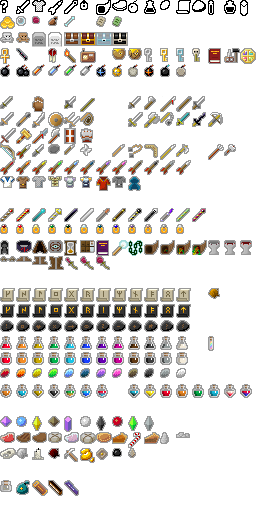
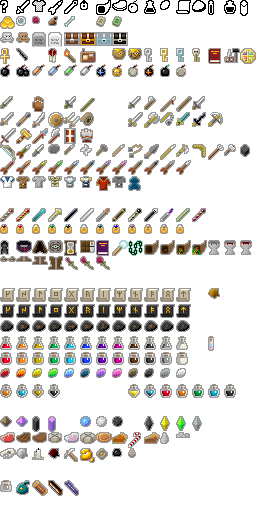
v0.7.3: removed unused sprites and added new ones (some still WIP)

diff --git a/core/src/main/java/com/shatteredpixel/shatteredpixeldungeon/sprites/ItemSpriteSheet.java b/core/src/main/java/com/shatteredpixel/shatteredpixeldungeon/sprites/ItemSpriteSheet.java
@@ -267,16 +267,19 @@ public class ItemSpriteSheet {
 	
 	public static final int FISHING_SPEAR   = MISSILE_WEP+4;
 	public static final int SHURIKEN        = MISSILE_WEP+5;
+	public static final int THROWING_CLUB   = MISSILE_WEP+6;
 	
 	public static final int THROWING_SPEAR  = MISSILE_WEP+7;
 	public static final int BOLAS           = MISSILE_WEP+8;
-	public static final int BOOMERANG       = MISSILE_WEP+9;
+	public static final int KUNAI           = MISSILE_WEP+9;
 	
 	public static final int JAVELIN         = MISSILE_WEP+10;
 	public static final int TOMAHAWK        = MISSILE_WEP+11;
+	public static final int BOOMERANG       = MISSILE_WEP+12;
 	
 	public static final int TRIDENT         = MISSILE_WEP+13;
 	public static final int THROWING_HAMMER = MISSILE_WEP+14;
+	public static final int FORCE_CUBE      = MISSILE_WEP+15;
 	
 	static{
 		assignItemRect(SPIRIT_BOW,      16, 16);
@@ -287,16 +290,19 @@ public class ItemSpriteSheet {
 		
 		assignItemRect(FISHING_SPEAR,   11, 11);
 		assignItemRect(SHURIKEN,        12, 12);
+		assignItemRect(THROWING_CLUB,   12, 12);
 		
 		assignItemRect(THROWING_SPEAR,  13, 13);
 		assignItemRect(BOLAS,           15, 14);
-		assignItemRect(BOOMERANG,       14, 14);
+		assignItemRect(KUNAI,           15, 15);
 		
 		assignItemRect(JAVELIN,         16, 16);
 		assignItemRect(TOMAHAWK,        13, 13);
+		assignItemRect(BOOMERANG,       14, 14);
 		
 		assignItemRect(TRIDENT,         16, 16);
 		assignItemRect(THROWING_HAMMER, 12, 12);
+		assignItemRect(FORCE_CUBE,      10, 13);
 	}
 	
 	public static final int TIPPED_DARTS    =                               xy(1, 11);  //16 slots
@@ -548,19 +554,15 @@ public class ItemSpriteSheet {
 	public static final int BREW_BLIZZARD   = BREWS+1;
 	public static final int BREW_SHOCKING   = BREWS+2;
 	public static final int BREW_CAUSTIC    = BREWS+3;
-	public static final int BREW_WICKED     = BREWS+4; //discontinued
-	public static final int BREW_FRIGID     = BREWS+5; //discontinued
-	public static final int BREW_FROSTFIRE  = BREWS+6; //discontinued
 	
 	private static final int ELIXIRS        =                               xy(9, 25);  //8 slots
-	public static final int ELIXIR_AQUA     = ELIXIRS+0;
-	public static final int ELIXIR_HONEY    = ELIXIRS+1;
+	public static final int ELIXIR_HONEY    = ELIXIRS+0;
+	public static final int ELIXIR_AQUA     = ELIXIRS+1;
 	public static final int ELIXIR_MIGHT    = ELIXIRS+2;
 	public static final int ELIXIR_DRAGON   = ELIXIRS+3;
 	public static final int ELIXIR_TOXIC    = ELIXIRS+4;
 	public static final int ELIXIR_ICY      = ELIXIRS+5;
-	public static final int ELIXIR_RESTO    = ELIXIRS+6; //discontinued
-	public static final int ELIXIR_SURGE    = ELIXIRS+7; //discontinued
+	public static final int ELIXIR_ARCANE   = ELIXIRS+6;
 	static{
 		for (int i = BREWS; i < BREWS+16; i++)
 			assignItemRect(i, 12, 14);
@@ -569,25 +571,31 @@ public class ItemSpriteSheet {
 	                                                                                    //16 free slots
 	
 	private static final int SPELLS         =                               xy(1, 27);  //16 slots
-	public static final int PHASE_SHIFT     = SPELLS+0;
-	public static final int AQUA_BLAST      = SPELLS+1;
-	public static final int MAGIC_INFUSE    = SPELLS+2;
-	public static final int MAGIC_PORTER    = SPELLS+3;
-	public static final int RETURN_BEACON   = SPELLS+4;
-	public static final int FEATHER_FALL    = SPELLS+5;
-	public static final int CURSE_INFUSE    = SPELLS+6;
+	public static final int MAGIC_PORTER    = SPELLS+0;
+	public static final int PHASE_SHIFT     = SPELLS+1;
+	public static final int WILD_ENERGY = SPELLS+2;
+	public static final int RETURN_BEACON   = SPELLS+3;
+	
+	public static final int AQUA_BLAST      = SPELLS+5;
+	public static final int FEATHER_FALL    = SPELLS+6;
 	public static final int RECLAIM_TRAP    = SPELLS+7;
-	public static final int ALCHEMIZE       = SPELLS+8;
-	public static final int RECYCLE         = SPELLS+9;
+	
+	public static final int CURSE_INFUSE    = SPELLS+9;
+	public static final int MAGIC_INFUSE    = SPELLS+10;
+	public static final int ALCHEMIZE       = SPELLS+11;
+	public static final int RECYCLE         = SPELLS+12;
 	static{
-		assignItemRect(PHASE_SHIFT,     12, 11);
-		assignItemRect(AQUA_BLAST,      11, 11);
-		assignItemRect(MAGIC_INFUSE,    10, 15);
 		assignItemRect(MAGIC_PORTER,    12, 11);
+		assignItemRect(PHASE_SHIFT,     12, 11);
+		assignItemRect(WILD_ENERGY,      8, 16);
 		assignItemRect(RETURN_BEACON,    8, 16);
+		
+		assignItemRect(AQUA_BLAST,      11, 11);
 		assignItemRect(FEATHER_FALL,    11, 11);
-		assignItemRect(CURSE_INFUSE,    10, 15);
 		assignItemRect(RECLAIM_TRAP,    11, 11);
+		
+		assignItemRect(CURSE_INFUSE,    10, 15);
+		assignItemRect(MAGIC_INFUSE,    10, 15);
 		assignItemRect(ALCHEMIZE,       10, 15);
 		assignItemRect(RECYCLE,         10, 15);
 	}

diff --git a/core/src/main/java/com/shatteredpixel/shatteredpixeldungeon/scenes/ChangesScene.java b/core/src/main/java/com/shatteredpixel/shatteredpixeldungeon/scenes/ChangesScene.java
@@ -272,7 +272,7 @@ public class ChangesScene extends PixelScene {
 		changes.hardlight( CharSprite.WARNING );
 		infos.add(changes);
 		
-		changes.addButton( new ChangeButton(new ItemSprite(ItemSpriteSheet.BREW_WICKED, null), "Combination Items",
+		changes.addButton( new ChangeButton(new ItemSprite(ItemSpriteSheet.BREW_INFERNAL, null), "Combination Items",
 				"The following combination items are no longer craftable, and are effectively removed from the game:\n" +
 				"_-_ Wicked Brew\n" +
 				"_-_ Frigid Brew\n" +
